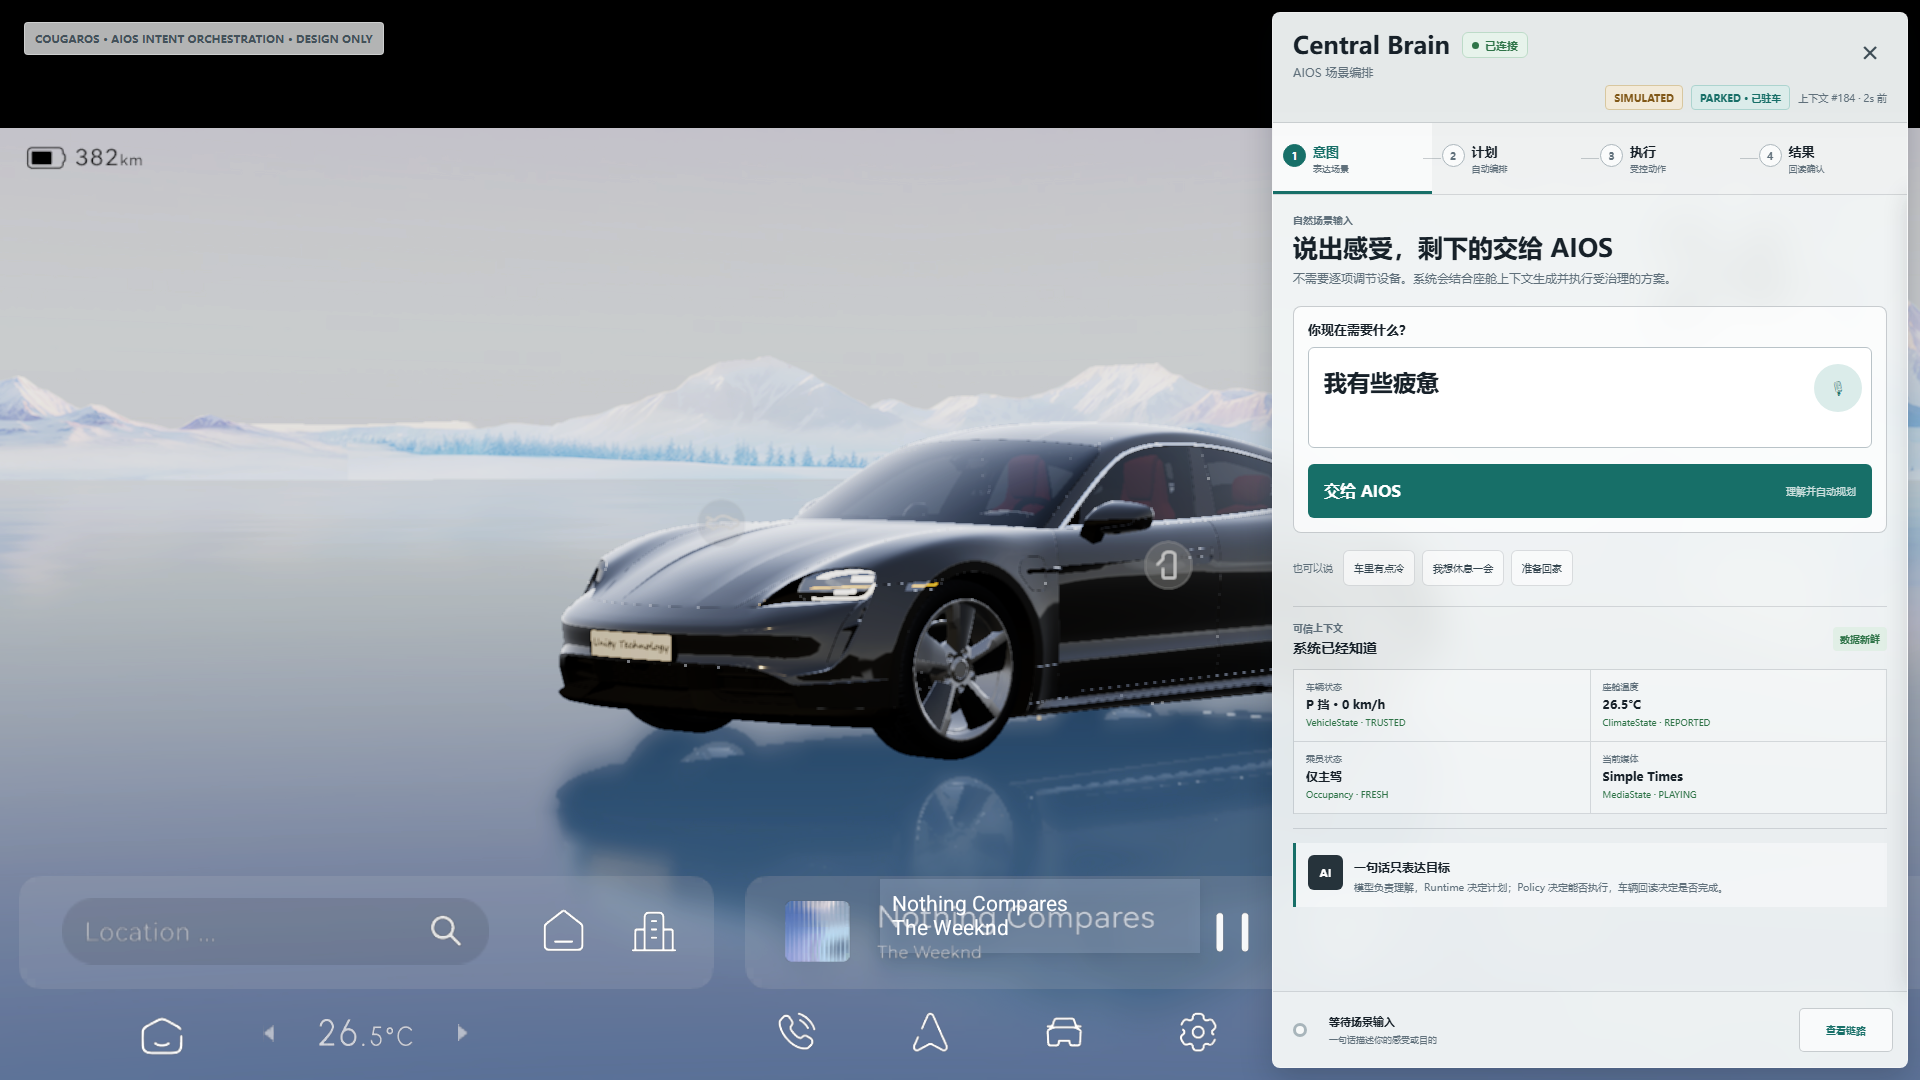
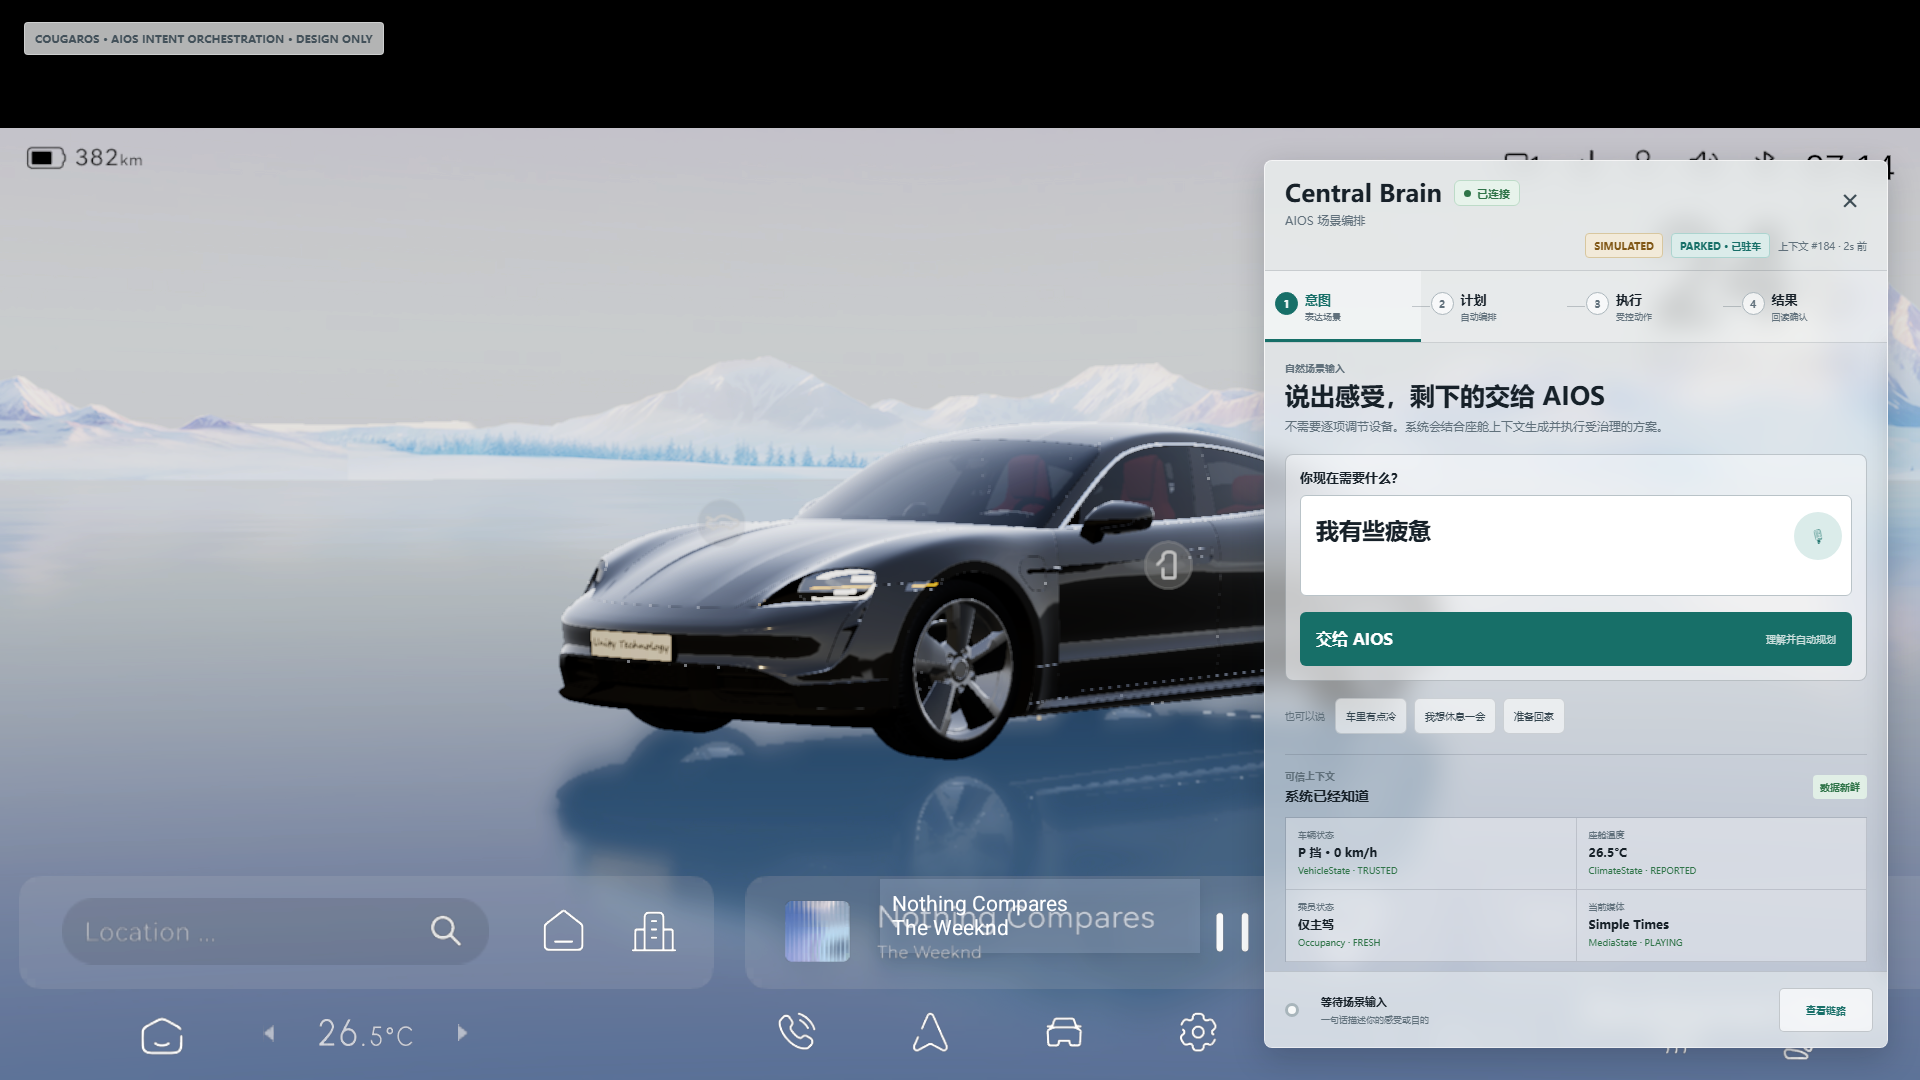
fix(hmi): fit overlay within 1920x1080
Constrain the intent-driven panel to the validated Client2 safe frame, cap preview scaling at 1, and lower the frosted-glass opacity. Isolate Windows Chrome render profiles and enforce geometry/material bounds in the design gate.\n\nReq IDs: S2-HMI-001/003/006, S2-UX-001/003, APP-004, DEL-001/004

Changed region(s): [[0.6562, 0.0, 1.0, 1.0]]

diff --git a/docs/ui/cockpit-hmi-design/styles.css b/docs/ui/cockpit-hmi-design/styles.css
@@ -12,8 +12,8 @@
   --amber-soft: #f2ead9;
   --success: #2f7448;
   --success-soft: #e1efe6;
-  --panel: rgba(244, 247, 247, 0.91);
-  --surface: rgba(255, 255, 255, 0.72);
+  --panel: rgba(238, 242, 243, 0.6);
+  --surface: rgba(255, 255, 255, 0.46);
   --line: rgba(49, 64, 74, 0.16);
   --line-strong: rgba(49, 64, 74, 0.25);
   --shadow: 0 10px 32px rgba(11, 20, 27, 0.22);
@@ -54,6 +54,7 @@ button {
   width: 1920px;
   height: 1080px;
   overflow: hidden;
+  contain: layout paint size;
   transform-origin: center;
   background: #080b0d;
 }
@@ -89,19 +90,20 @@ button {
 
 .brain-panel {
   position: absolute;
-  top: 12px;
-  right: 12px;
+  top: 160px;
+  right: 32px;
+  bottom: 32px;
   z-index: 5;
   display: flex;
-  width: 636px;
-  height: 1056px;
+  width: 624px;
   overflow: hidden;
   flex-direction: column;
-  border: 1px solid rgba(255, 255, 255, 0.5);
+  border: 1px solid rgba(255, 255, 255, 0.7);
   border-radius: 8px;
   background: var(--panel);
   box-shadow: var(--shadow);
-  backdrop-filter: blur(20px);
+  -webkit-backdrop-filter: blur(14px) saturate(1.08);
+  backdrop-filter: blur(14px) saturate(1.08);
   transition: opacity 160ms ease, transform 160ms ease;
 }
 
@@ -116,7 +118,7 @@ button {
   min-height: 110px;
   padding: 18px 20px 12px;
   border-bottom: 1px solid var(--line);
-  background: rgba(231, 234, 234, 0.78);
+  background: rgba(235, 239, 240, 0.4);
 }
 
 .brand-line {
@@ -228,7 +230,7 @@ button {
   min-height: 72px;
   grid-template-columns: repeat(4, 1fr);
   border-bottom: 1px solid var(--line);
-  background: rgba(239, 242, 242, 0.84);
+  background: rgba(242, 245, 245, 0.42);
 }
 
 .flow-tab {
@@ -287,7 +289,7 @@ button {
 
 .flow-tab.active {
   color: var(--teal);
-  background: rgba(255, 255, 255, 0.62);
+  background: rgba(255, 255, 255, 0.38);
   box-shadow: inset 0 -3px 0 var(--teal);
 }
 
@@ -362,7 +364,7 @@ button {
   padding: 14px;
   border: 1px solid var(--line-strong);
   border-radius: 8px;
-  background: rgba(255, 255, 255, 0.7);
+  background: rgba(255, 255, 255, 0.48);
 }
 
 .intent-composer > label {
@@ -1157,7 +1159,7 @@ button {
   align-items: center;
   gap: 10px;
   border-top: 1px solid var(--line);
-  background: rgba(237, 240, 241, 0.94);
+  background: rgba(239, 243, 244, 0.5);
 }
 
 .session-indicator {
@@ -1209,7 +1211,9 @@ button {
   z-index: 8;
   padding: 20px;
   overflow-y: auto;
-  background: rgba(244, 247, 247, 0.98);
+  background: rgba(240, 244, 245, 0.74);
+  -webkit-backdrop-filter: blur(18px) saturate(1.06);
+  backdrop-filter: blur(18px) saturate(1.06);
   box-shadow: -12px 0 24px rgba(17, 27, 34, 0.16);
   transform: translateX(102%);
   transition: transform 180ms ease;
@@ -1326,6 +1330,16 @@ button {
   background: var(--teal);
   font-size: 11px;
   font-weight: 900;
+}
+
+@supports not ((backdrop-filter: blur(1px)) or (-webkit-backdrop-filter: blur(1px))) {
+  .brain-panel {
+    background: rgba(238, 242, 243, 0.82);
+  }
+
+  .device-drawer {
+    background: rgba(240, 244, 245, 0.9);
+  }
 }
 
 .panel-launcher strong {

diff --git a/docs/ui/cockpit-hmi-design/app.js b/docs/ui/cockpit-hmi-design/app.js
@@ -11,6 +11,8 @@
   const stripLabel = document.querySelector("[data-session-label]");
   const stripDetail = document.querySelector("[data-session-detail]");
   const views = ["intent", "plan", "execution", "result"];
+  const CANVAS_WIDTH = 1920;
+  const CANVAS_HEIGHT = 1080;
 
   const stripState = {
     intent: ["等待场景输入", "一句话描述你的感受或目的", "idle"],
@@ -59,8 +61,14 @@
   };
 
   function scaleStage() {
-    const scale = Math.min(window.innerWidth / 1920, window.innerHeight / 1080);
+    const viewportWidth = document.documentElement.clientWidth;
+    const viewportHeight = document.documentElement.clientHeight;
+    const scale = Math.min(1, viewportWidth / CANVAS_WIDTH, viewportHeight / CANVAS_HEIGHT);
+
+    stage.style.left = `${viewportWidth / 2}px`;
+    stage.style.top = `${viewportHeight / 2}px`;
     stage.style.transform = `translate(-50%, -50%) scale(${scale})`;
+    stage.dataset.previewScale = scale.toFixed(4);
   }
 
   function showView(view, updateUrl = true) {

diff --git a/docs/ui/cockpit-hmi-design/index.html b/docs/ui/cockpit-hmi-design/index.html
@@ -7,7 +7,7 @@
     <link rel="stylesheet" href="styles.css">
   </head>
   <body>
-    <main class="design-stage" aria-label="CougarOS AIOS 中控设计稿">
+    <main class="design-stage" data-canvas-width="1920" data-canvas-height="1080" aria-label="CougarOS AIOS 中控设计稿">
       <img class="vehicle-scene" src="../../assets/cockpit-hmi-design/client2-emulator-scene-reference.png" alt="Client2 车模界面参考画布">
       <div class="design-watermark">COUGAROS · AIOS INTENT ORCHESTRATION · DESIGN ONLY</div>
       <button class="outside-dismiss" type="button" aria-label="点击面板外区域隐藏 Central Brain"></button>

diff --git a/docs/CENTRAL_BRAIN_COCKPIT_HMI_UX_DESIGN_MOCKUPS.md b/docs/CENTRAL_BRAIN_COCKPIT_HMI_UX_DESIGN_MOCKUPS.md
@@ -1,6 +1,6 @@
 # Central Brain Client2 中控 UI/UX 设计稿
 
-版本：2.0
+版本：2.1
 
 日期：2026-07-16
 
@@ -27,9 +27,15 @@ Req ID：`APP-001/003/004`、`FW-U-001/003/004`、`FW-S-001/003/005`、`XSC-001`
 用户不需要先选择 HVAC 或 Seat。设备界面仍然保留，但降为 Effect 详情与受治理的手动兜底抽屉，
 从而同时满足 AIOS 主叙事和中控闭环要求。
 
+第三次视觉审查指出原 Panel `y=12, h=1056` 几乎占满 1080px 高度，浏览器或 Android 非全屏
+内容区中容易产生越界观感；`alpha=0.91` 及其叠加层也过于接近实色。当前基线改为经过 Client2
+界面证据校准的安全框 `x=1264, y=160, w=624, h=888`，并采用 60% 浅灰玻璃主材质。
+
 ```text
 cockpit_hmi_design_mockups_ready=true
 aios_intent_orchestration_ux_ready=true
+cockpit_hmi_1920x1080_safe_frame_verified=true
+cockpit_hmi_translucent_material_ready=true
 cockpit_hvac_surface_implemented=false
 cockpit_seat_surface_implemented=false
 cockpit_demo_control_loop_implemented=false
@@ -47,6 +53,7 @@ target_hardware_validated=false
 5. **结果由回读决定**：模型回复、按钮状态和动画都不能替代 adapter observation。
 6. **设备控制是次级入口**：HVAC/Seat 详情用于解释、诊断和手动兜底，不是产品首页。
 7. **可恢复可撤销**：隐藏面板不停止 Session；失败、partial、retry、undo 和重连均可见。
+8. **画布内安全呈现**：1920x1080 是唯一设计坐标系；Panel 必须完全位于画布内，预览只能等比缩小。
 
 ## 3. 设计资产
 
@@ -69,9 +76,10 @@ target_hardware_validated=false
 
 | 对象 | 1920x1080 基准 | Android 实现建议 |
 | --- | --- | --- |
-| Panel | x=1272，y=12，w=636，h=1056 | 右侧约 1/3，外边距 12dp，约束布局 |
+| Canvas | x=0，y=0，w=1920，h=1080 | 固定设计坐标；预览 `scale <= 1`，不改写 Android 资源尺寸 |
+| Panel | x=1264，y=160，w=624，h=888 | 对齐 Client2 已验证安全区；right=32、bottom=32，内容区独立滚动 |
 | Radius | 8px | 8dp，重复 Effect row 使用 6dp |
-| Material | `rgba(244,247,247,0.91)` + blur | blur 不可用时 92% 浅灰实色降级 |
+| Material | `rgba(238,242,243,0.60)` + 14px blur | 支持 blur 时保持背景可辨；不支持时 82% 浅灰降级 |
 | Header | 110px | connection/source/driving/context revision 固定 |
 | Stage nav | 72px | 意图/计划/执行/结果四等分，显示已完成阶段 |
 | Session strip | 76px | 全局固定；隐藏面板不 cancel Session |
@@ -80,6 +88,9 @@ target_hardware_validated=false
 主色 `#176F68` 表示 AIOS active/primary；`#2F7448` 表示 verified；`#9A6A22` 表示 approval/
 applying；`#397793` 表示 readback/secondary information；`#B84E3D` 仅用于座椅/热相关提示。
 状态必须同时使用文字、位置和 source，不能只依赖颜色。
+
+边界计算固定为 `1264 + 624 = 1888 <= 1920`、`160 + 888 = 1048 <= 1080`。浏览器预览使用
+`min(1, viewportWidth/1920, viewportHeight/1080)`，任何窗口尺寸都不得裁切或放大设计画布。
 
 ## 5. 四个主视图
 
@@ -184,7 +195,9 @@ renderer 和 SDK 协调进入 maintained Java secondary dex。
 6. 结果页逐项区分 desired/reported/source，不能用模型文本或本地按钮宣称完成；
 7. partial、stop、retry、approval、undo、reconnect 有明确位置；
 8. 所有稿件持续显示 `SIMULATED` 和 `DESIGN ONLY`；
-9. 设计稿不得把 `cockpit_demo_control_loop_implemented` 或硬件/量产状态改为 true。
+9. Panel 边界固定为 `(1264,160)-(1888,1048)`，四张稿件不得越过 1920x1080 画布；
+10. 主玻璃 alpha 为 0.60，背景车模在 Panel 下仍可辨认；fallback 不得影响硬件/量产结论；
+11. 设计稿不得把 `cockpit_demo_control_loop_implemented` 或硬件/量产状态改为 true。
 
 复现：`bash docs/ui/cockpit-hmi-design/render_mockups.sh`。
 

diff --git a/README.md b/README.md
@@ -22,7 +22,7 @@ Java/AIDL/C Android Runtime、typed Binder SDK、Client2 座舱 HMI 和面向真
 | GitHub 基线 | `maintained_project_files_synced=true` | 正式源码/文档已跟踪；首页架构与进度由门禁维护 |
 | Python 原型 | `python_prototype_runtime_maintained=false` | 源码、合同、样例、部署和对应门禁已移除 |
 | AIOS Stage 2 | `design_baseline_complete=true`；`implementation_stage=P1-W01` | 下一步为 Session DTO/AIDL；P0 设计基线已完成 |
-| 中控 AIOS UI/UX 设计稿 | `cockpit_hmi_design_mockups_ready=true`；`aios_intent_orchestration_ux_ready=true` | 可点击意图/计划/执行/结果原型、自动化调用链和四张 1920x1080 稿件已形成；仅 HMI-D0 设计基线 |
+| 中控 AIOS UI/UX 设计稿 | `cockpit_hmi_design_mockups_ready=true`；`aios_intent_orchestration_ux_ready=true`；`cockpit_hmi_1920x1080_safe_frame_verified=true`；`cockpit_hmi_translucent_material_ready=true` | 四阶段原型、自动化链、画布内安全框、60% 半透明浅灰玻璃和四张 1920x1080 稿件已形成；仅 HMI-D0 设计基线 |
 | 中控 AIOS 闭环 | `cockpit_demo_control_loop_implemented=false` | Client2 四阶段、Effect 详情和闭环合同已规划；P4 预计 24-32 人日 |
 | 测试版本 | `android13-hwtest-v0.5.0-rc.2` | 远程硬件测试合同的当前 RC；不是量产版本 |
 | 模型/NPU | `vendor_npu_provider_available=false` | Model contract/C ABI 保留，Vendor provider 仍为空 |
@@ -351,6 +351,7 @@ bash tools/test_client2_central_brain_recovery.sh
 
 | 日期 | 提交或版本 | 修改内容 | 状态边界 |
 | --- | --- | --- | --- |
+| 2026-07-16 | [HMI 画布与材质修正](docs/CENTRAL_BRAIN_COCKPIT_HMI_UX_DESIGN_MOCKUPS.md) | Panel 收敛到 `(1264,160)-(1888,1048)`，预览只等比缩小；主材质从 0.91 改为 0.60 半透明浅灰玻璃 | `cockpit_hmi_1920x1080_safe_frame_verified=true`；仍是 HMI-D0 设计资产 |
 | 2026-07-16 | [AIOS 意图编排 UI/UX](docs/CENTRAL_BRAIN_COCKPIT_HMI_UX_DESIGN_MOCKUPS.md) | 将控制按钮式主导航纠正为“意图/计划/执行/结果”，以“我有些疲惫”驱动自动 Context、Plan、Policy、Effect 与 readback，并显式展示全链路 | `aios_intent_orchestration_ux_ready=true`；HMI-D1/APK/车控仍未实现 |
 | 2026-07-16 | [中控 HMI 规划](docs/CENTRAL_BRAIN_COCKPIT_HMI_CONTROL_LOOP_PLAN.md) | 将 HVAC/Seat 作为次级 Effect 详情与手动兜底，冻结四阶段、全 Effect projection、仿真回读和 22 项验收 | 仅完成 HMI-D0 规划；`cockpit_demo_control_loop_implemented=false` |
 | 2026-07-16 | [PR #8](https://github.com/LucasWEIchen/CougarOS/pull/8) | 固化 GitHub source-of-truth、完整项目同步、首页架构图和已开发/未开发进度表门禁 | 合并后 `main` 首页为权威状态 |

diff --git a/docs/CENTRAL_BRAIN_COMPLETE_SOFTWARE_DEVELOPMENT_DESIGN.md b/docs/CENTRAL_BRAIN_COMPLETE_SOFTWARE_DEVELOPMENT_DESIGN.md
@@ -1,6 +1,6 @@
 # Central Brain AIOS 完整软件开发设计说明
 
-版本：2.2
+版本：2.3
 
 日期：2026-07-16
 
@@ -433,6 +433,11 @@ Header 固定显示 connection、`SIMULATED/TARGET/UNAVAILABLE` source 和
 `PARKED/MOVING/UNKNOWN_RESTRICTED` presentation。Intent -> Context -> Plan -> Policy -> Effect ->
 readback 主链在计划/执行/结果阶段持续可见。Persistent execution strip 在所有视图可见；
 隐藏 overlay 只影响呈现，不取消已接受 session。
+
+HMI-D0/HMI-D1 使用固定 1920x1080 设计坐标。`BrainOverlay` 的安全框为
+`left=1264, top=160, width=624, height=888`，右边界 1888、下边界 1048；Panel 内 Surface 独立滚动，
+不得通过扩大根 View 或超出 RenderService 画布承载内容。主玻璃 alpha 为 0.60，Android blur 不可用
+时才切换到 0.82 浅灰 fallback。浏览器原型只负责等比预览，不改变 Android layout contract。
 
 HVAC 和 Seat 不再占据顶层 tab，而是由 Effect row 打开 `DeviceDetailDrawer`。抽屉保留完整
 desired/reported 和手动微调，但手动请求仍创建 governed scenario。“执行”视图是通用 Effect
@@ -1444,7 +1449,7 @@ central-brain-sdk AAR
 | Gate | 必须完成 | 可验收输出 | 当前状态 |
 | --- | --- | --- | --- |
 | HMI-D0 | `S2-HMI-001..006`、意图驱动四阶段、状态机、工作包、验收和高保真稿件冻结 | 设计文档、可点击原型、四张 PNG 与静态 checker | `DONE` |
-| HMI-D1 | 四阶段 overlay shell、Effect 详情抽屉、资源、Java controller/reducer/renderer | 1920x1080 layout/UI tree | `NOT_STARTED` |
+| HMI-D1 | 四阶段 overlay shell、Effect 详情抽屉、资源、Java controller/reducer/renderer | 1920x1080 安全框 layout/UI tree、alpha/blur fallback | `NOT_STARTED` |
 | HMI-D2 | manual HVAC/Seat -> simulated Effect -> delayed readback | `HMI-AC-*`、`HMI-ST-*` 基础用例 | `NOT_STARTED` |
 | HMI-D3 | cold/fatigue/rest 多 Effect、approval、partial、undo | graph/effect/recovery instrumentation | `NOT_STARTED` |
 | HMI-D4 | Android 13 ARM64 UI/Binder/fault/restart 全矩阵 | Client2 APK 演示闭环证据 | `NOT_STARTED` |

diff --git a/docs/CENTRAL_BRAIN_AIOS_STAGE2_DEVELOPMENT_BACKLOG.md b/docs/CENTRAL_BRAIN_AIOS_STAGE2_DEVELOPMENT_BACKLOG.md
@@ -336,7 +336,8 @@ Stage 2 设计和 P0-P7 用户态实现固定：`production_ready=false`、
 - 状态：`NOT_STARTED`；2 人日；需求：`S2-HMI-001..003/006`。
 - 修改 maintained XML/vector resources 和最小 Smali bootstrap，不手改 build/reverse output。
 - DoD：现有 overlay 顶层提供“意图/计划/执行/结果”；Header 固定 source/driving/connection；
-  HVAC/Seat 位于 Effect 详情和手动兜底抽屉；仍由底部导航显示/隐藏，面板外点击关闭。
+  HVAC/Seat 位于 Effect 详情和手动兜底抽屉；1920x1080 安全框固定为
+  `(1264,160)-(1888,1048)`，主玻璃 alpha=0.60；仍由底部导航显示/隐藏，面板外点击关闭。
 
 ### `P4-W04` HVAC control surface
 
@@ -387,8 +388,8 @@ Stage 2 设计和 P0-P7 用户态实现固定：`production_ready=false`、
 ### `P4-W11` Accessibility/display matrix
 
 - 状态：`NOT_STARTED`；1.5-2.5 人日；需求：`S2-UX-003`、`S2-HMI-001/002`。
-- DoD：48dp target、content description、状态不只靠颜色、最长中文不重叠；1920x1080、
-  1280x720、2560x1440 screenshot/layout gate。
+- DoD：48dp target、content description、状态不只靠颜色、最长中文不重叠；1920x1080 不越界，
+  1280x720、2560x1440 只按定义的显示矩阵适配；Web 设计预览 scale 不得大于 1。
 
 ### `P4-W12` Android device acceptance/fault/recovery
 

diff --git a/docs/CENTRAL_BRAIN_ROADMAP.md b/docs/CENTRAL_BRAIN_ROADMAP.md
@@ -1,6 +1,6 @@
 # Central Brain Android 13 开发路线图
 
-版本：0.6
+版本：0.7
 日期：2026-07-16
 状态：Stage 2 implementation ready
 
@@ -159,6 +159,8 @@ SDK、Driver/HAL、功能安全认证、量产 HMI 重写和
 - 基于现有 Client2 车模和右侧悬浮面板交付可点击“意图/计划/执行/结果”原型、四张 1920x1080
   PNG、Intent -> Context -> Plan -> Policy -> Effect -> Readback 可观察链、Android 映射和静态门禁；
   仅完成 HMI-D0，HMI-D1/APK 实现仍未开始。
+- 将 HMI-D0 Panel 收敛为 `(1264,160)-(1888,1048)` 1920x1080 安全框，主材质由 0.91 实色感
+  调整为 0.60 半透明浅灰玻璃，并修复 Windows Chrome 连续渲染 profile 隔离。
 - GitHub 默认分支 `main` 是权威进度基线；开发分支合并后不得单独保留状态结论。
 
 ## 8. 当前门禁
@@ -186,6 +188,8 @@ github_homepage_architecture_current=true
 design_baseline_complete=true
 aios_intent_orchestration_ux_ready=true
 cockpit_hmi_design_mockups_ready=true
+cockpit_hmi_1920x1080_safe_frame_verified=true
+cockpit_hmi_translucent_material_ready=true
 production_ready=false
 target_hardware_validated=false
 driver_development_triggered=false

diff --git a/docs/CENTRAL_BRAIN_ARCHITECTURE_ISSUES.md b/docs/CENTRAL_BRAIN_ARCHITECTURE_ISSUES.md
@@ -1,6 +1,6 @@
 # 中央大脑架构疑点与风险登记表
 
-版本：0.2
+版本：0.3
 日期：2026-07-16
 状态：Android 13 实际工程基线
 
@@ -158,6 +158,10 @@ systemd 样例及专用测试。CI 新增退役门禁，确保 `central-brain/` 
 2026-07-16 设计审查又发现首版高保真稿以 HVAC/Seat 按钮为顶层导航，仍更像智能中控而不是
 AIOS。设计已纠正为“意图/计划/执行/结果”四阶段：用户只表达自然场景，界面明确展示 Intent、
 Context、Plan、Policy、Effect 和 readback；HVAC/Seat 降为 Effect 详情与受治理手动兜底。
+
+同日第二次视觉审查发现原高保真 Panel `y=12, h=1056` 几乎贴满 1920x1080 画布，且 0.91 alpha
+过于接近实色。HMI-D0 已改为 `(1264,160)-(1888,1048)` 安全框和 0.60 浅灰玻璃；浏览器预览
+scale 上限为 1。该修正只关闭设计越界风险，不代表 HMI-D1 APK 或多显示矩阵已完成。
 
 处理计划：业务状态和 renderer 进入 maintained Java secondary-dex，Smali 只保留 bootstrap；自然
 场景与手动微调均通过 typed SDK 进入 Runtime。无真实车身信号时使用持续标注 SIMULATED 的 Android

diff --git a/docs/CENTRAL_BRAIN_ARCHITECTURE_REQUIREMENTS.md b/docs/CENTRAL_BRAIN_ARCHITECTURE_REQUIREMENTS.md
@@ -1,6 +1,6 @@
 # 中央大脑架构需求基线
 
-版本：0.4
+版本：0.5
 日期：2026-07-16
 状态：Android 13 实际工程基线
 
@@ -299,11 +299,15 @@ Production adapter registry must return adapter unavailable rather than silently
    隐藏/重开必须进入 Android 13 ARM64 验收。
 11. 所有进入演示 plan 的 HVAC/Seat/Media/Navigation Effect 必须在中控“执行”视图有 target、source、
    progress、reported result 和适用的 stop/cancel/undo projection；禁止只在模型文本中宣称完成。
+12. HMI-D0/HMI-D1 以 1920x1080 为固定设计坐标，Panel 必须完全位于 Client2 可见安全区；浏览器
+   预览只能等比缩小。主 Panel 使用可辨认背景的半透明浅灰材质，不得恢复接近实色的 0.91 alpha。
 
 完整设计和 22 项验收矩阵见 `CENTRAL_BRAIN_COCKPIT_HMI_CONTROL_LOOP_PLAN.md`。当前状态：
 
 ```text
 aios_intent_orchestration_ux_ready=true
+cockpit_hmi_1920x1080_safe_frame_verified=true
+cockpit_hmi_translucent_material_ready=true
 cockpit_hvac_surface_implemented=false
 cockpit_seat_surface_implemented=false
 cockpit_demo_control_loop_implemented=false

diff --git a/docs/CENTRAL_BRAIN_COCKPIT_HMI_CONTROL_LOOP_PLAN.md b/docs/CENTRAL_BRAIN_COCKPIT_HMI_CONTROL_LOOP_PLAN.md
@@ -1,6 +1,6 @@
 # Central Brain 中控屏 HVAC/Seat 演示闭环规划
 
-版本：1.2
+版本：1.3
 
 日期：2026-07-16
 
@@ -47,6 +47,10 @@ virtualization_development_triggered=false
 入口和右侧半透明悬浮面板完成“意图、计划、执行、结果”四阶段设计。首屏只接收自然场景表达，
 HVAC/Seat 降为 Effect 详情与手动兜底抽屉。仓库同时提供可点击 HTML/CSS/JS 原型、四张
 1920x1080 PNG、视觉 token、Android 类/资源映射和可复现渲染脚本。
+
+Panel 在固定画布中的基线为 `x=1264, y=160, w=624, h=888`，右/下安全边距均为 32px；
+内容通过 Panel 内滚动承载，不允许扩高画布。主玻璃为 `rgba(238,242,243,0.60)` 与 14px blur，
+Header/导航/底栏使用低 alpha 叠层，保证车模背景仍可辨认。
 
 该资产补全 HMI-D0 视觉基线，不是 HMI-D1 的 Android resource/Java controller，也不能证明
 HVAC/Seat 控制、Effect readback、目标硬件或量产能力已经实现。
